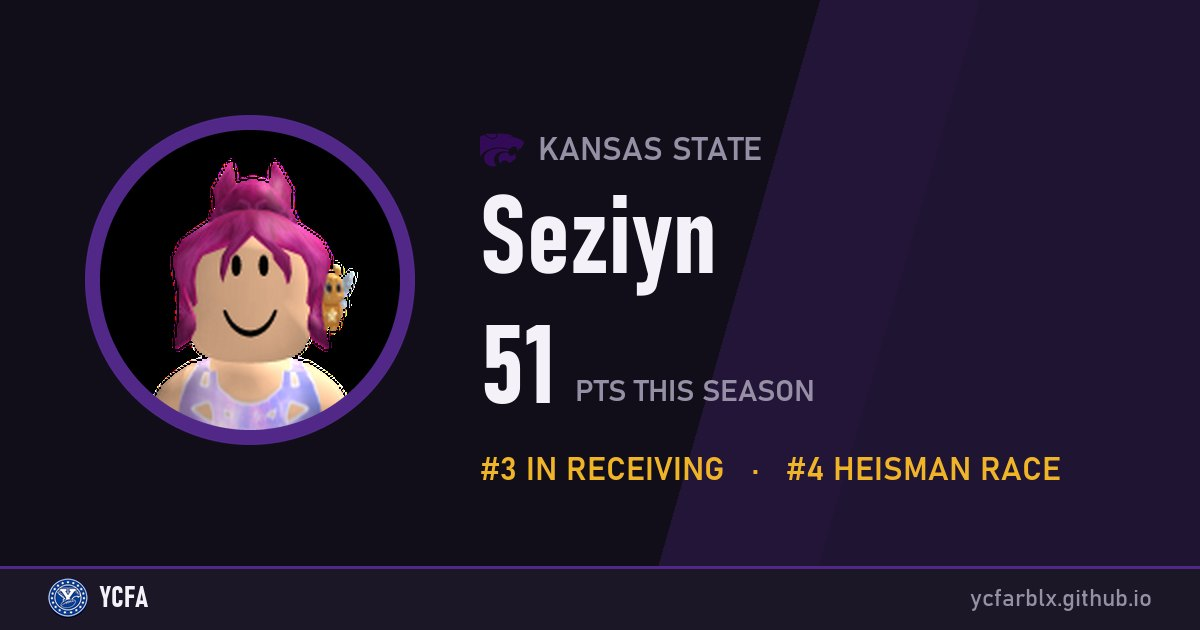
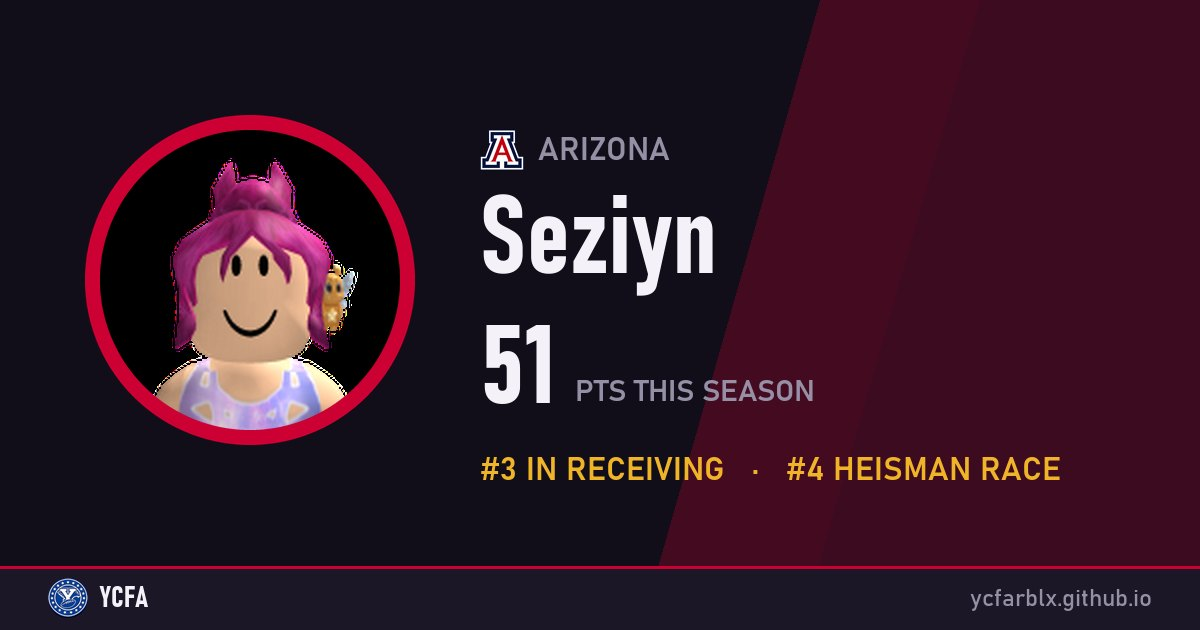
Stats update 2026-11-25 22:16

diff --git a/player/seziyn/index.html b/player/seziyn/index.html
@@ -5,20 +5,20 @@
   <meta name="viewport" content="width=device-width, initial-scale=1, viewport-fit=cover">
   <!--meta:start-->
   <title>Seziyn · YCFA</title>
-  <meta name="description" content="DB / DL / WR · Kansas State · 51 PTS in season 1 · #3 In Receiving   ·   #4 Heisman Race. Stats, game log and career highs.">
-  <meta name="theme-color" content="#512888">
+  <meta name="description" content="DB / DL / WR · Arizona · 51 PTS in season 1 · #3 In Receiving   ·   #4 Heisman Race. Stats, game log and career highs.">
+  <meta name="theme-color" content="#cc0033">
   <meta property="og:site_name" content="YCFA">
   <meta property="og:type" content="website">
   <meta property="og:title" content="Seziyn · YCFA">
-  <meta property="og:description" content="DB / DL / WR · Kansas State · 51 PTS in season 1 · #3 In Receiving   ·   #4 Heisman Race. Stats, game log and career highs.">
+  <meta property="og:description" content="DB / DL / WR · Arizona · 51 PTS in season 1 · #3 In Receiving   ·   #4 Heisman Race. Stats, game log and career highs.">
   <meta property="og:url" content="https://ycfarblx.github.io/player/seziyn">
-  <meta property="og:image" content="https://ycfarblx.github.io/og/player-seziyn.jpg?v=722ec5be43">
+  <meta property="og:image" content="https://ycfarblx.github.io/og/player-seziyn.jpg?v=e5b4ed6801">
   <meta property="og:image:width" content="1200">
   <meta property="og:image:height" content="630">
   <meta name="twitter:card" content="summary_large_image">
   <meta name="twitter:title" content="Seziyn · YCFA">
-  <meta name="twitter:description" content="DB / DL / WR · Kansas State · 51 PTS in season 1 · #3 In Receiving   ·   #4 Heisman Race. Stats, game log and career highs.">
-  <meta name="twitter:image" content="https://ycfarblx.github.io/og/player-seziyn.jpg?v=722ec5be43">
+  <meta name="twitter:description" content="DB / DL / WR · Arizona · 51 PTS in season 1 · #3 In Receiving   ·   #4 Heisman Race. Stats, game log and career highs.">
+  <meta name="twitter:image" content="https://ycfarblx.github.io/og/player-seziyn.jpg?v=e5b4ed6801">
   <!--meta:end-->
   <link rel="icon" href="/img/favicon.png">
   <link rel="apple-touch-icon" href="/img/apple-touch-icon.png">

diff --git a/game/3/index.html b/game/3/index.html
@@ -12,13 +12,13 @@
   <meta property="og:title" content="Kansas State 21, Houston 0 · Final · YCFA">
   <meta property="og:description" content="Houston forfeited. Kansas State gets the forfeit win (FFW), Houston the forfeit loss (FFL).">
   <meta property="og:url" content="https://ycfarblx.github.io/game/3">
-  <meta property="og:image" content="https://ycfarblx.github.io/og/game-3.jpg?v=540e159e77">
+  <meta property="og:image" content="https://ycfarblx.github.io/og/game-3.jpg?v=c8b6d1de28">
   <meta property="og:image:width" content="1200">
   <meta property="og:image:height" content="630">
   <meta name="twitter:card" content="summary_large_image">
   <meta name="twitter:title" content="Kansas State 21, Houston 0 · Final · YCFA">
   <meta name="twitter:description" content="Houston forfeited. Kansas State gets the forfeit win (FFW), Houston the forfeit loss (FFL).">
-  <meta name="twitter:image" content="https://ycfarblx.github.io/og/game-3.jpg?v=540e159e77">
+  <meta name="twitter:image" content="https://ycfarblx.github.io/og/game-3.jpg?v=c8b6d1de28">
   <!--meta:end-->
   <link rel="icon" href="/img/favicon.png">
   <link rel="apple-touch-icon" href="/img/apple-touch-icon.png">
